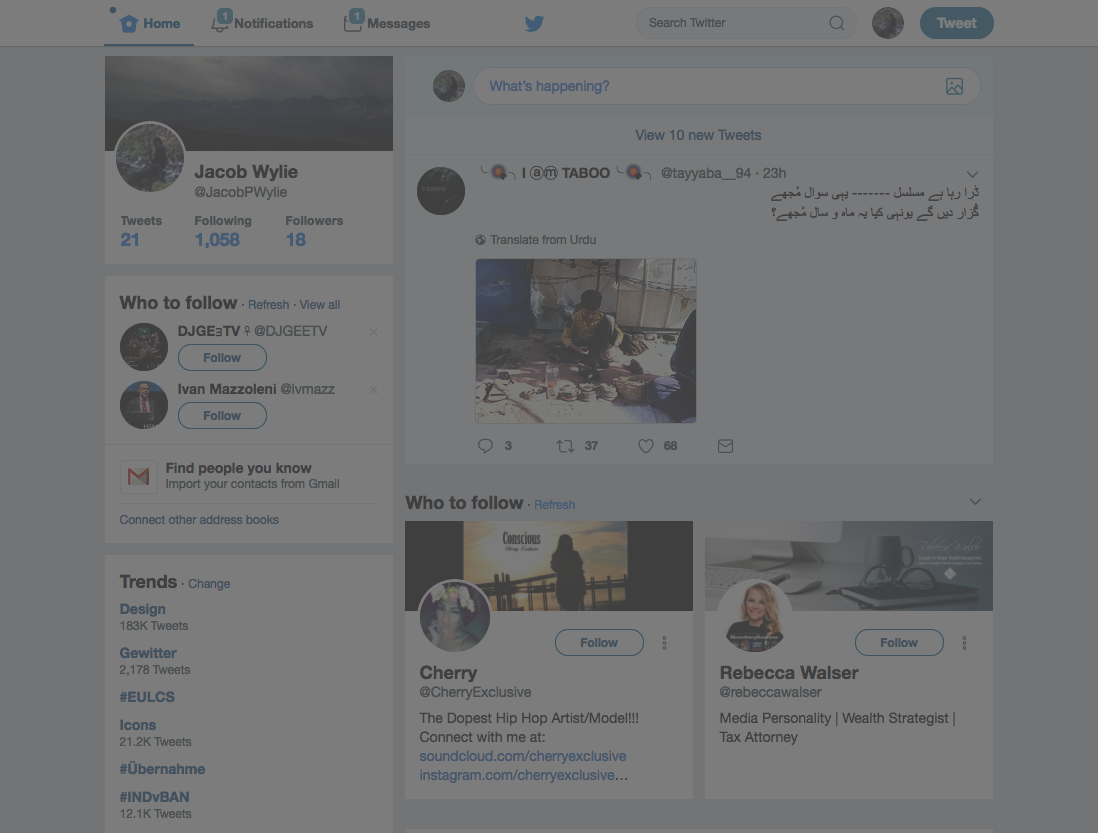
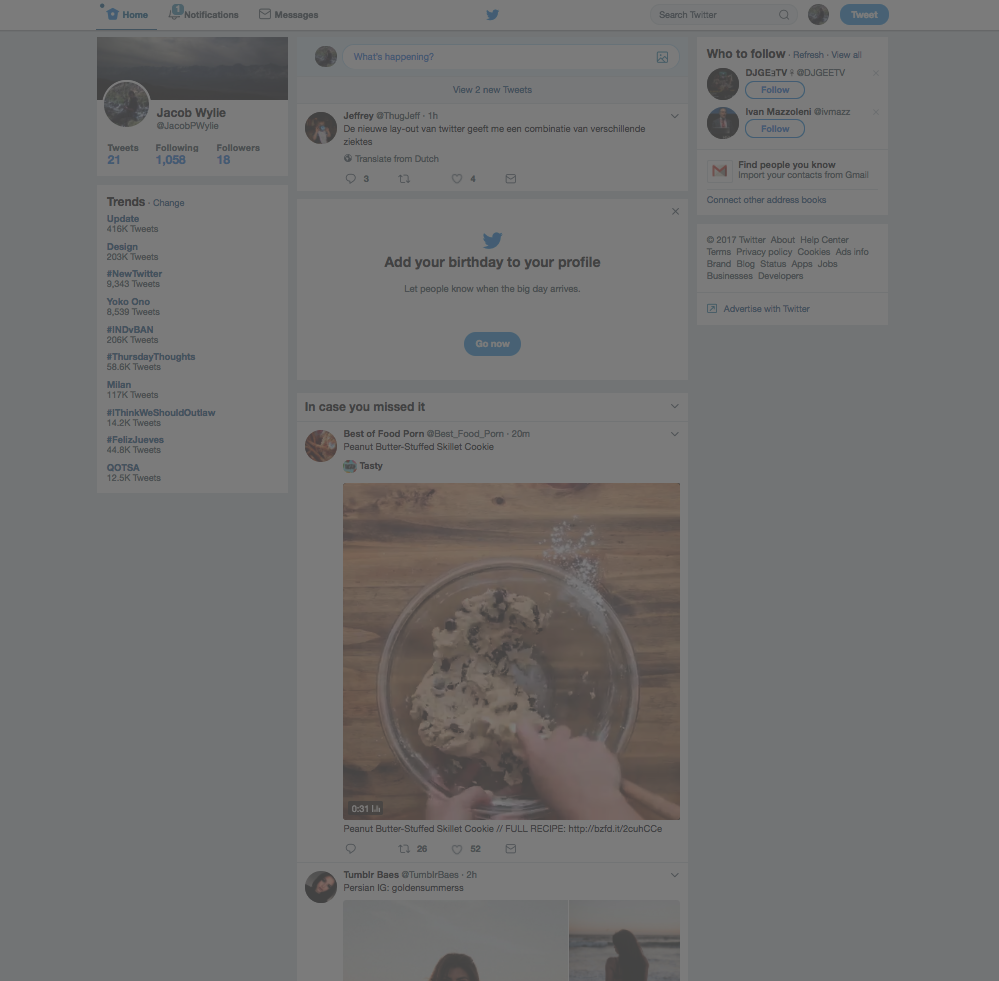
background image

diff --git a/style.css b/style.css
@@ -169,7 +169,7 @@ hr {
 }
 
 .dashboard {
-	width: 25%;
+	width: 250px;
 	margin: 50px auto;
 
 }
